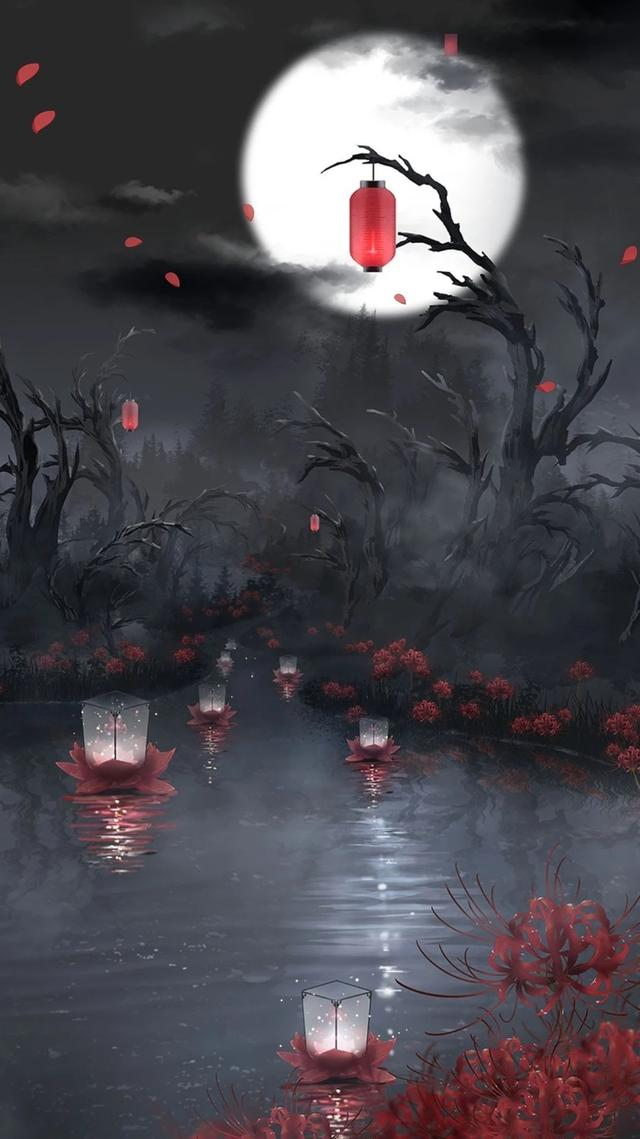
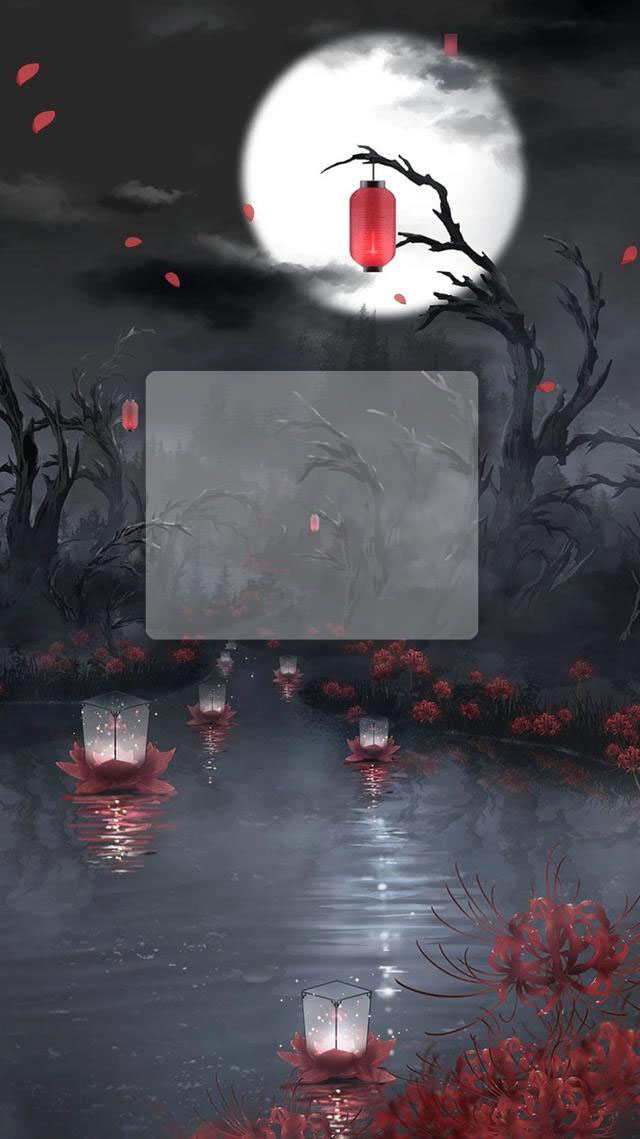
增加登录界面

Changed region(s): [[0.2188, 0.3073, 0.75, 0.5838]]

diff --git a/src/main/login/pages/Register.java b/src/main/login/pages/Register.java
@@ -1,0 +1,108 @@
+package main.login.pages;
+
+import java.awt.Color;
+import java.awt.FlowLayout;
+
+import java.awt.Font;
+import javax.swing.ImageIcon;
+import javax.swing.JFrame;
+import javax.swing.JLabel;
+import javax.swing.JPanel;
+import javax.swing.JPasswordField;
+import javax.swing.JTextField;
+import main.login.button.RoundRectButton;
+
+public class Register {
+
+  public Register() {
+    /* 初始化窗体 */
+    JFrame loginStart = new JFrame("数学试卷生成系统");
+    loginStart.setSize(400, 700);
+    loginStart.setLocationRelativeTo(null);//居中显示
+
+    /* 设置背景图片 */
+    ImageIcon background = new ImageIcon("images/background.jpeg");// 背景图片
+    JLabel label = new JLabel(background);// 把背景图片显示在一个标签里面
+    label.setBounds(0, 0, loginStart.getWidth(), loginStart.getHeight());
+    JPanel imagePanel = (JPanel) loginStart.getContentPane();// 把内容窗格转化为JPanel
+    imagePanel.setOpaque(false);//用方法setOpaque()来使内容窗格透明
+    imagePanel.setLayout(new FlowLayout());// 内容窗格默认的布局管理器为BorderLayout
+    loginStart.getLayeredPane().setLayout(null);
+    loginStart.getLayeredPane()
+        .add(label, Integer.valueOf(Integer.MIN_VALUE));// 把背景图片添加到分层窗格的最底层作为背景
+    imagePanel.setLayout(null);
+
+    /* 页面提示 */
+    JLabel welcomeJlable = new JLabel("注  册");
+    welcomeJlable.setFont(new Font("微软雅黑", 0, 25));
+    welcomeJlable.setForeground(Color.CYAN);
+    welcomeJlable.setBounds(170, 130, 300, 90);
+
+    /* 添加账号面板 */
+    JLabel userID = new JLabel("账号");
+    userID.setForeground(Color.white);
+    userID.setBounds(75, 200, 190, 30);
+    userID.setFont(new Font("微软雅黑", 0, 18));
+    JTextField userName = new JTextField();
+    userName.setSize(150, 20);
+    userName.setBounds(120, 200, 190, 30);
+    userName.setFont(new Font("微软雅黑", 0, 16));
+    imagePanel.add(userID);
+    imagePanel.add(userName);
+
+    /* 添加密码面板 */
+    JLabel userPasswd = new JLabel("密码");
+    userPasswd.setForeground(Color.white);
+    userPasswd.setBounds(75, 240, 190, 30);
+    userPasswd.setFont(new Font("微软雅黑", 0, 18));
+    JPasswordField passWord = new JPasswordField();
+    passWord.setSize(150, 20);
+    passWord.setBounds(120, 240, 190, 30);
+    passWord.setFont(new Font("微软雅黑", 0, 18));
+    imagePanel.add(userPasswd);
+    imagePanel.add(passWord);
+
+    /* 确认密码 */
+    JLabel repeatPasswd = new JLabel("确认密码");
+    repeatPasswd.setForeground(Color.white);
+    repeatPasswd.setBounds(38, 280, 190, 30);
+    repeatPasswd.setFont(new Font("微软雅黑", 0, 18));
+    JPasswordField repeatWord = new JPasswordField();
+    repeatWord.setBounds(120, 280, 190, 30);
+    repeatWord.setFont(new Font("微软雅黑", 0, 18));
+    imagePanel.add(repeatPasswd);
+    imagePanel.add(repeatWord);
+
+    /* 验证码 */
+    JLabel verificationPasswd = new JLabel("验证码");
+    verificationPasswd.setForeground(Color.white);
+    verificationPasswd.setBounds(58, 320, 190, 30);
+    verificationPasswd.setFont(new Font("微软雅黑", 0, 18));
+    JTextField verificationWord = new JTextField();
+    verificationWord.setBounds(120, 320, 80, 30);
+    verificationWord.setFont(new Font("微软雅黑", 0, 18));
+    imagePanel.add(verificationPasswd);
+    imagePanel.add(verificationWord);
+
+    /* 获取验证码按钮 */
+    RoundRectButton obtain = new RoundRectButton("获取验证码");
+    obtain.setFont(new Font("微软雅黑", 0, 14));
+    obtain.setBounds(210, 320, 100, 30);
+    obtain.setForeground(Color.WHITE);
+    obtain.setBackground(new Color(0, 191, 255));
+    imagePanel.add(obtain);
+
+    /* 添加登陆注册按钮 */
+    RoundRectButton determine = new RoundRectButton("注   册");
+    determine.setFont(new Font("微软雅黑", 0, 14));
+    determine.setBounds(100, 360, 180, 30);
+    determine.setForeground(Color.WHITE);
+    determine.setBackground(new Color(0, 191, 255));
+    imagePanel.add(determine);
+
+    imagePanel.add(welcomeJlable);
+    loginStart.setDefaultCloseOperation(JFrame.EXIT_ON_CLOSE);
+    loginStart.setResizable(false);
+    loginStart.setVisible(true);
+  }
+}

diff --git a/src/main/login/pages/LoginUI.java b/src/main/login/pages/LoginUI.java
@@ -1,24 +1,22 @@
-package main.login;
+package main.login.pages;
 
 import java.awt.Color;
 import java.awt.FlowLayout;
 
 import java.awt.Font;
-import java.awt.event.MouseAdapter;
-import java.awt.event.MouseEvent;
 import javax.swing.ImageIcon;
-import javax.swing.JButton;
 import javax.swing.JFrame;
 import javax.swing.JLabel;
 import javax.swing.JPanel;
 import javax.swing.JPasswordField;
 import javax.swing.JTextField;
+import main.login.button.RoundRectButton;
 
 public class LoginUI {
 
   public LoginUI() {
     /* 初始化窗体 */
-    JFrame loginStart = new JFrame("背景图片测试");
+    JFrame loginStart = new JFrame("数学试卷生成系统");
     loginStart.setSize(400, 700);
     loginStart.setLocationRelativeTo(null);//居中显示
 
@@ -32,27 +30,52 @@ public class LoginUI {
     loginStart.getLayeredPane().setLayout(null);
     loginStart.getLayeredPane()
         .add(label, Integer.valueOf(Integer.MIN_VALUE));// 把背景图片添加到分层窗格的最底层作为背景
+    imagePanel.setLayout(null);
 
     /* 设置界面欢迎语 */
-    JLabel welcomeJlable = new JLabel("欢迎来到数学答题生成系统");
-    imagePanel.setLayout(null);
-    welcomeJlable.setFont(new Font("微软雅黑",0,25));
+    JLabel welcomeJlable = new JLabel("欢迎来到数学试卷生成系统");
+    welcomeJlable.setFont(new Font("微软雅黑", 0, 25));
     welcomeJlable.setForeground(Color.CYAN);
-    welcomeJlable.setBounds(50,150,300,90);
+    welcomeJlable.setBounds(50, 150, 300, 90);
 
     /* 添加账号面板 */
+    JLabel userID = new JLabel("账号");
+    userID.setForeground(Color.white);
+    userID.setBounds(75, 250, 190, 30);
+    userID.setFont(new Font("微软雅黑", 0, 18));
     JTextField userName = new JTextField();
-    userName.setSize(150,20);
-    imagePanel.setLayout(null);
-    userName.setBounds(100,250,190,30);
+    userName.setSize(150, 20);
+    userName.setBounds(120, 250, 190, 30);
+    userName.setFont(new Font("微软雅黑", 0, 16));
+    imagePanel.add(userID);
     imagePanel.add(userName);
 
     /* 添加密码面板 */
+    JLabel userPasswd = new JLabel("密码");
+    userPasswd.setForeground(Color.white);
+    userPasswd.setBounds(75, 290, 190, 30);
+    userPasswd.setFont(new Font("微软雅黑", 0, 18));
     JPasswordField passWord = new JPasswordField();
-    passWord.setSize(150,20);
+    passWord.setSize(150, 20);
     imagePanel.setLayout(null);
-    passWord.setBounds(100,290,190,30);
+    passWord.setBounds(120, 290, 190, 30);
+    passWord.setFont(new Font("微软雅黑", 0, 18));
+    imagePanel.add(userPasswd);
     imagePanel.add(passWord);
+
+    /* 添加登陆注册按钮 */
+    RoundRectButton signIn = new RoundRectButton("登录");
+    signIn.setFont(new Font("微软雅黑", 0, 14));
+    signIn.setBounds(100, 360, 80, 30);
+    signIn.setForeground(Color.WHITE);
+    signIn.setBackground(new Color(0, 191, 255));
+    RoundRectButton register = new RoundRectButton("注册");
+    register.setFont(new Font("微软雅黑", 0, 14));
+    register.setBounds(200, 360, 80, 30);
+    register.setForeground(Color.WHITE);
+    register.setBackground(new Color(0, 191, 255));
+    imagePanel.add(signIn);
+    imagePanel.add(register);
 
     imagePanel.add(welcomeJlable);
     loginStart.setDefaultCloseOperation(JFrame.EXIT_ON_CLOSE);

diff --git a/src/main/login/button/RoundRectButton.java b/src/main/login/button/RoundRectButton.java
@@ -1,0 +1,49 @@
+package main.login.button;
+
+import java.awt.Color;
+import java.awt.Component;
+import java.awt.Graphics;
+import java.awt.Insets;
+import javax.swing.JButton;
+import javax.swing.border.Border;
+
+class RoundBorder implements Border {
+
+  public Insets getBorderInsets(Component c) {
+    return new Insets(0, 0, 0, 0);
+  }
+
+  public boolean isBorderOpaque() {
+    return false;
+  }
+
+  public void paintBorder(Component c, Graphics g, int x, int y,
+      int width, int height) {
+    //使用黑色在组件的外边缘绘制一个圆角矩形
+    g.setColor(Color.BLACK);
+    g.drawRoundRect(0, 0, c.getWidth() - 1, c.getHeight() - 1, 10, 10);
+  }
+}
+
+public class RoundRectButton extends JButton {
+
+  public RoundRectButton(String s) {
+    super(s);
+    setMargin(new Insets(0, 0, 0, 0));//去除文字与按钮的边沿
+    setBorder(new RoundBorder());//圆角矩形边界
+    setContentAreaFilled(false);//取消原先画矩形的设置
+    setBorderPainted(false);//会导致按钮没有明显边界
+    setFocusPainted(false);//去除文字周围的虚线框
+  }
+
+  protected void paintComponent(Graphics g) {
+    if (getModel().isArmed()) {
+      g.setColor(Color.LIGHT_GRAY);//按下后按钮变成绿色
+    } else {
+      g.setColor(getBackground());
+    }
+    g.fillRoundRect(0, 0, getSize().width - 1, getSize().height - 1, 10, 10);//填充圆角矩形边界
+    // 这个调用会画一个标签和焦点矩形。
+    super.paintComponent(g);
+  }
+}

diff --git a/src/main/AutomaticGenerator.java b/src/main/AutomaticGenerator.java
@@ -1,15 +1,17 @@
 package main;
 
-import main.login.Login;
-import main.login.LoginUI;
+import main.login.attribute.Login;
+import main.login.pages.Register;
 import main.users.*;
+
 /**
  * 程序主类
  */
 public class AutomaticGenerator {
 
   public static void main(String[] args) {
-    new LoginUI();
+//    new LoginUI();
+    new Register();
     DefaultUsers defaultUsers = new DefaultUsers();
     defaultUsers.initUser();
     /* login 用户鉴权 */

diff --git a/src/main/login/listener/LoginListener.java b/src/main/login/listener/LoginListener.java
@@ -1,0 +1,7 @@
+package main.login.listener;
+
+import main.login.listener.ListenerImp;
+
+public class LoginListener extends ListenerImp {
+
+}

diff --git a/src/main/login/listener/ListenerImp.java b/src/main/login/listener/ListenerImp.java
@@ -1,4 +1,4 @@
-package main.login;
+package main.login.listener;
 
 import java.awt.event.ActionEvent;
 import java.awt.event.ActionListener;

diff --git a/src/main/login/attribute/Login.java b/src/main/login/attribute/Login.java
@@ -1,4 +1,4 @@
-package main.login;
+package main.login.attribute;
 /**
  * 用户类
  */
